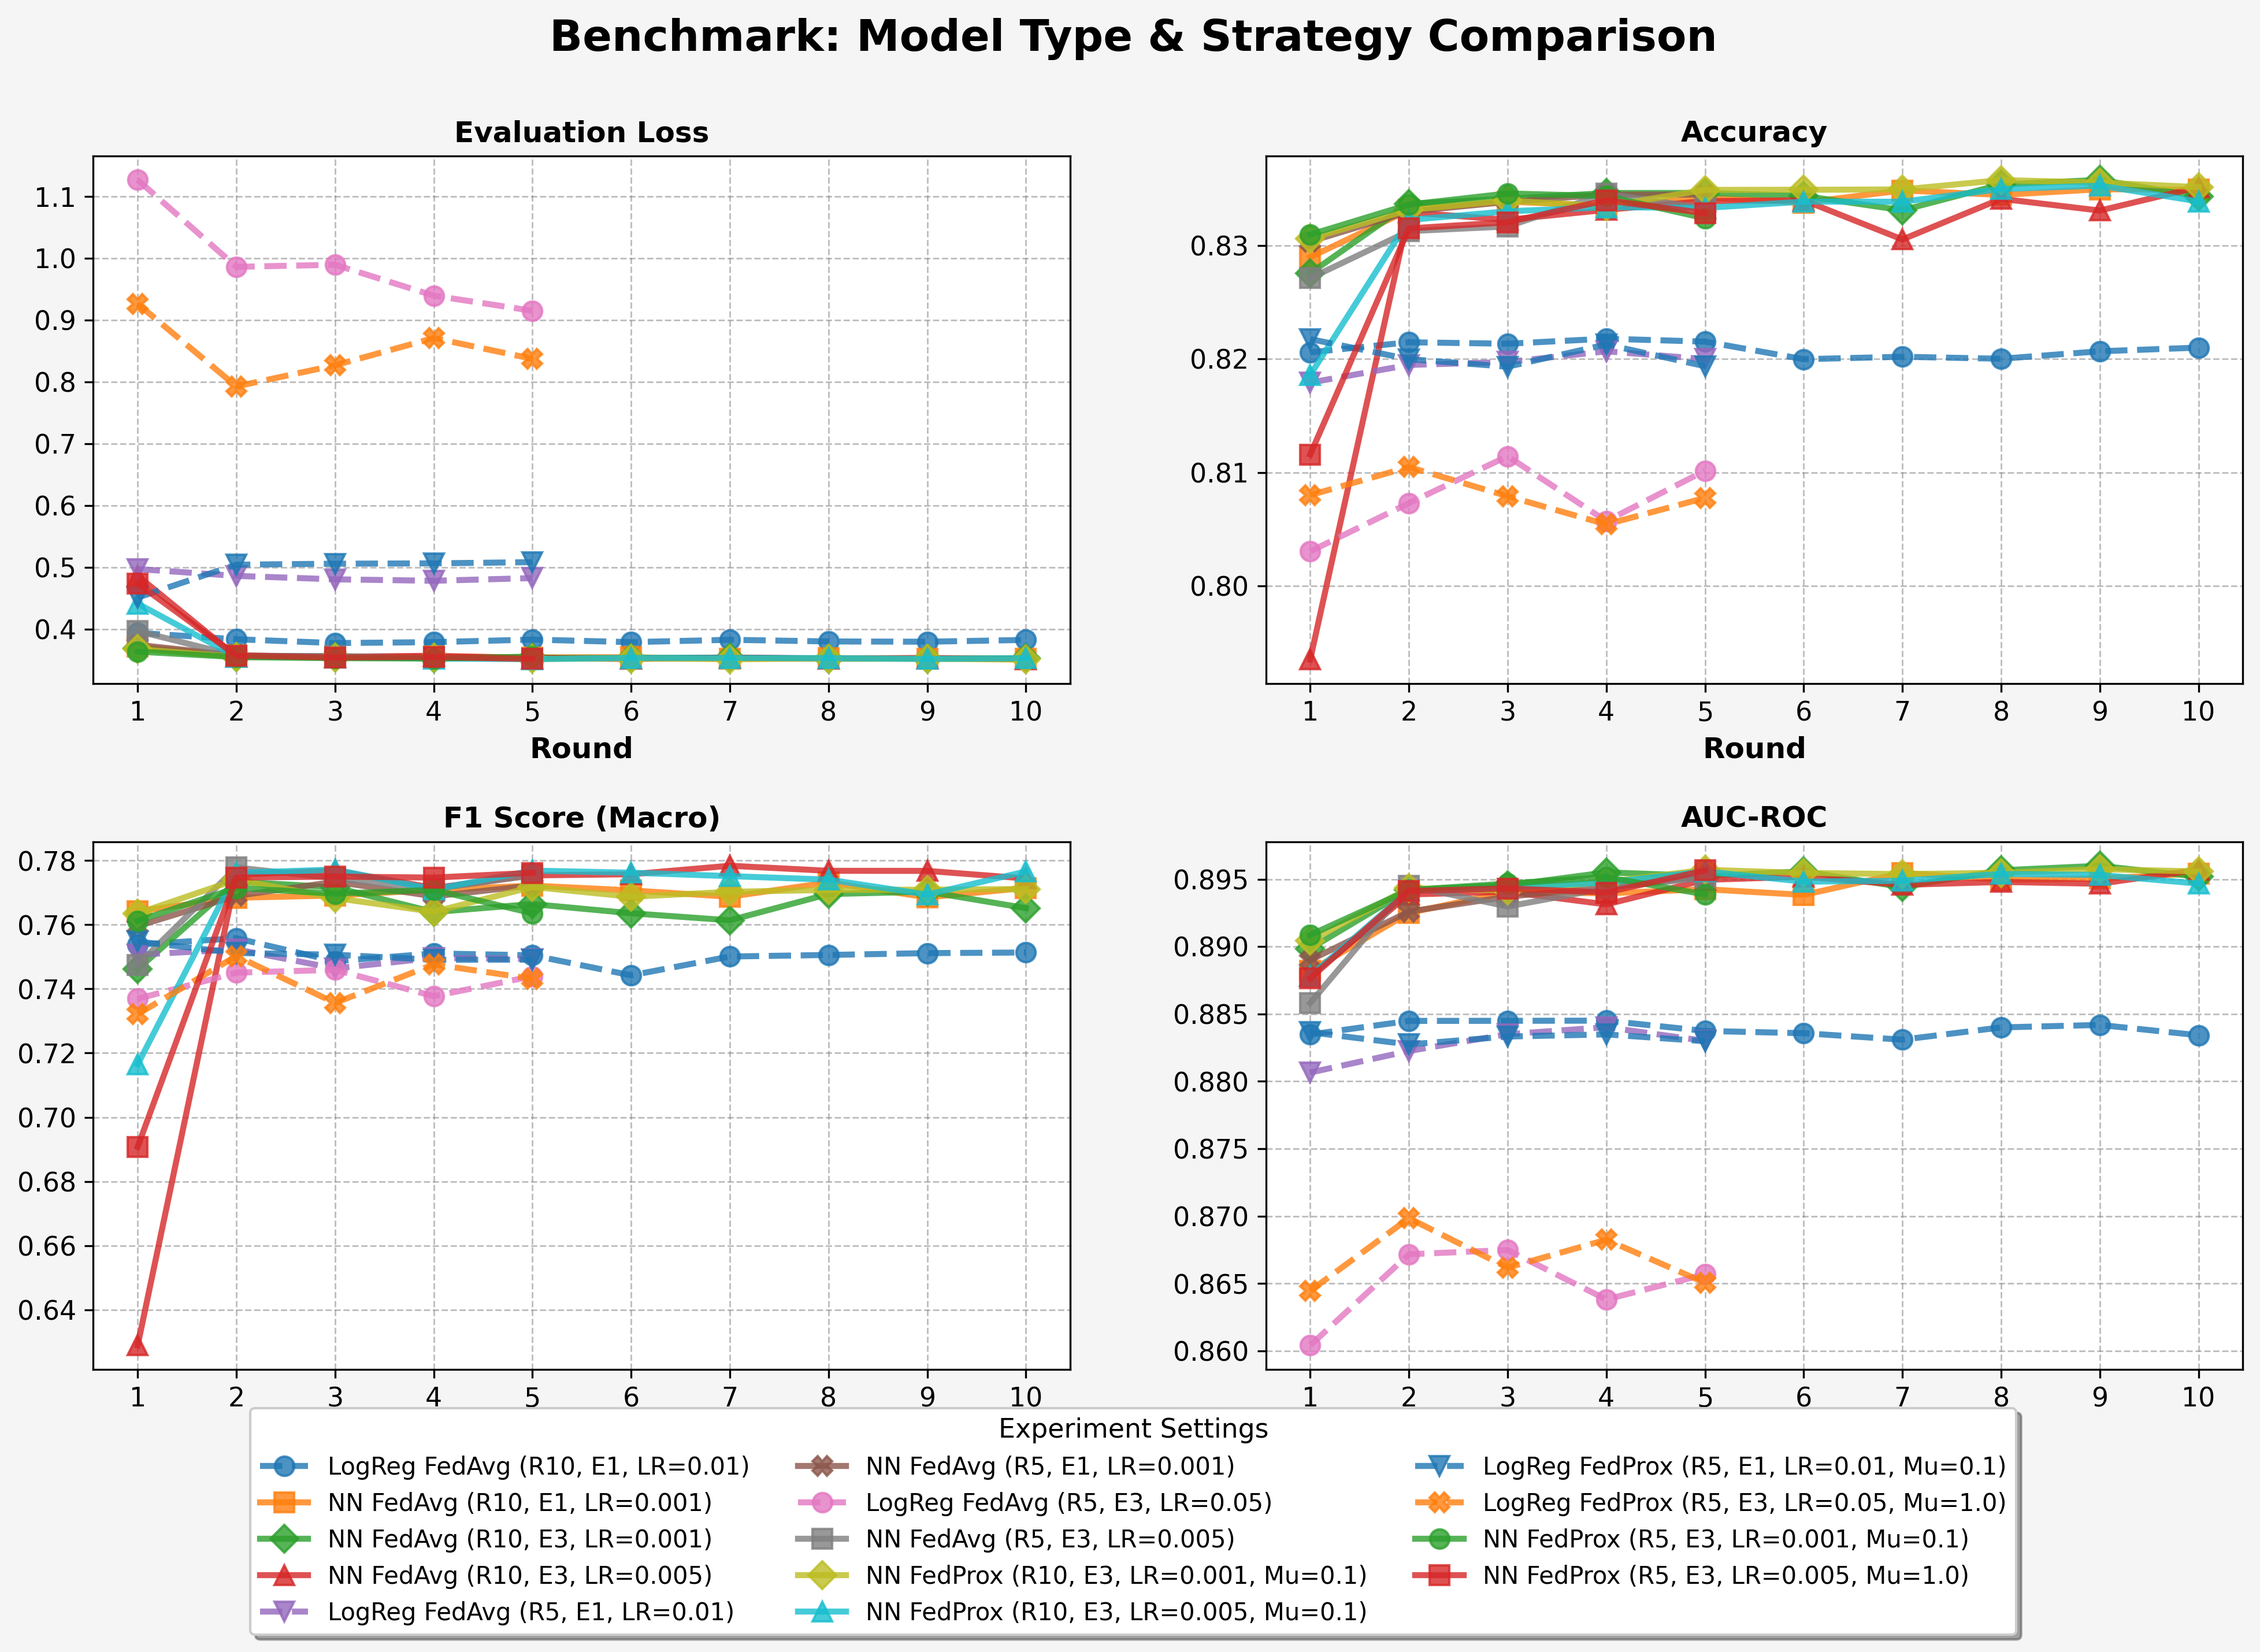
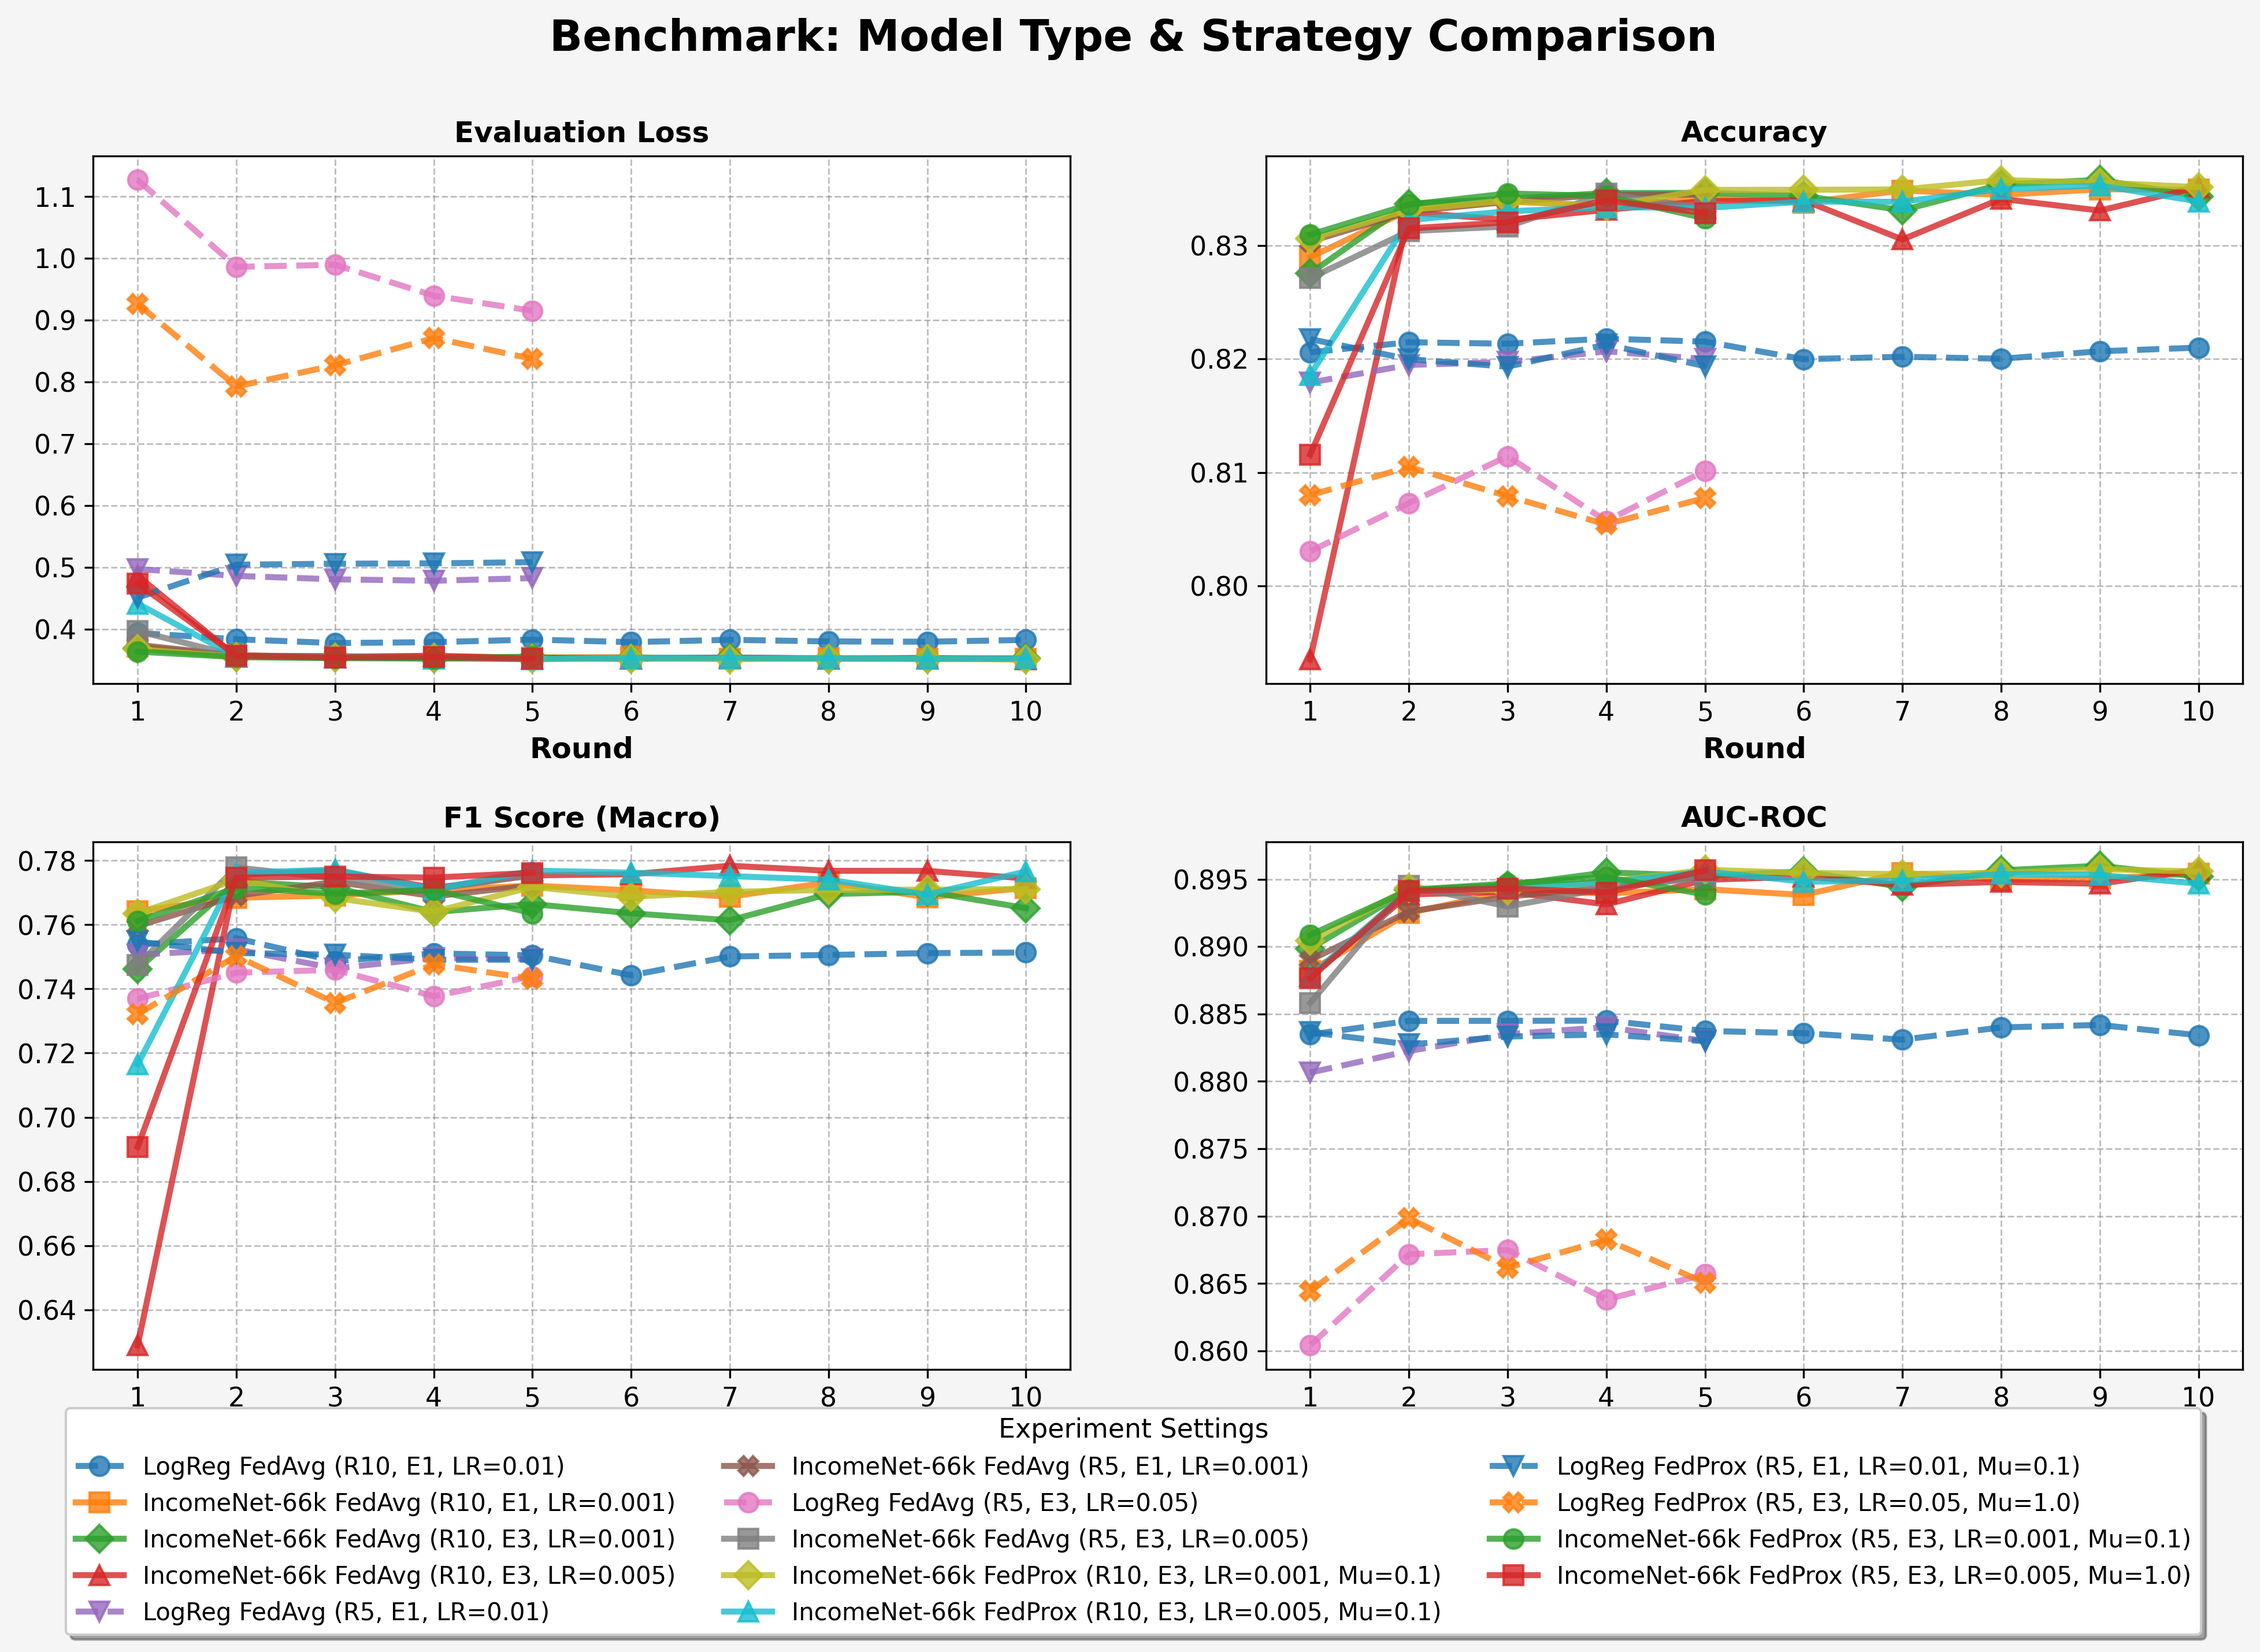
rename model to IncomeNet

Changed region(s): [[0.0312, 0.8716, 0.9982, 0.9962]]

diff --git a/pilot/pilot/client_app.py b/pilot/pilot/client_app.py
@@ -2,7 +2,7 @@ import torch
 from flwr.app import ArrayRecord, Context, Message, MetricRecord, RecordDict
 from flwr.clientapp import ClientApp
 
-from pilot.task import BankNet, LogisticRegression, load_data, train as train_fn, test as test_fn
+from pilot.task import IncomeNet, LogisticRegression, load_data, train as train_fn, test as test_fn
 
 app = ClientApp()
 
@@ -18,7 +18,7 @@ def train(msg: Message, context: Context):
     if model_type == "logreg":
         model = LogisticRegression(input_dim=input_dim)
     else:
-        model = BankNet(input_dim=input_dim)
+        model = IncomeNet(input_dim=input_dim)
         
     model.load_state_dict(msg.content["arrays"].to_torch_state_dict())
     
@@ -63,7 +63,7 @@ def evaluate(msg: Message, context: Context):
     if model_type == "logreg":
         model = LogisticRegression(input_dim=input_dim)
     else:
-        model = BankNet(input_dim=input_dim)
+        model = IncomeNet(input_dim=input_dim)
         
     model.load_state_dict(msg.content["arrays"].to_torch_state_dict())
     device = torch.device("cuda:0" if torch.cuda.is_available() else "cpu")

diff --git a/bank_C_analysis/model_training.py b/bank_C_analysis/model_training.py
@@ -203,12 +203,12 @@ def run_logistic_regression(X_train_scaled: np.ndarray,
     print("Best Parameter:", grid_log.best_params_)
 
 
-class BankNet(nn.Module):
+class IncomeNet(nn.Module):
     """
     A simple feed-forward neural network for binary classification.
     """
     def __init__(self, input_dim: int):
-        super(BankNet, self).__init__()
+        super(IncomeNet, self).__init__()
         self.network = nn.Sequential(
             nn.Linear(input_dim, 256),
             nn.BatchNorm1d(256),
@@ -253,7 +253,7 @@ def run_pytorch_nn(X_train_scaled: np.ndarray,
     train_loader = DataLoader(train_dataset, batch_size=64, shuffle=True)
 
     input_dim = X_train_tensor.shape[1]
-    model = BankNet(input_dim)
+    model = IncomeNet(input_dim)
     criterion = nn.BCELoss()
     optimizer = optim.Adam(model.parameters(), lr=0.001)
 

diff --git a/pilot/pilot/server_app.py b/pilot/pilot/server_app.py
@@ -4,7 +4,7 @@ import os
 from flwr.app import ArrayRecord, ConfigRecord, Context
 from flwr.serverapp import Grid, ServerApp
 
-from pilot.task import BankNet, LogisticRegression, load_data
+from pilot.task import IncomeNet, LogisticRegression, load_data
 from pilot.strategy import FedAvgWithHistory, FedProxWithHistory
 
 app = ServerApp()
@@ -35,7 +35,7 @@ def main(grid: Grid, context: Context) -> None:
     if model_type == "logreg":
         global_model = LogisticRegression(input_dim=input_dim)
     else:
-        global_model = BankNet(input_dim=input_dim)
+        global_model = IncomeNet(input_dim=input_dim)
         
     arrays = ArrayRecord(global_model.state_dict())
 

diff --git a/pilot/pilot/task.py b/pilot/pilot/task.py
@@ -7,9 +7,9 @@ from sklearn.metrics import f1_score, roc_auc_score, accuracy_score
 from pilot.utils import load_preprocessing
 from typing import Tuple, Dict
 
-class BankNet(nn.Module):
+class IncomeNet(nn.Module):
     def __init__(self, input_dim: int):
-        super(BankNet, self).__init__()
+        super(IncomeNet, self).__init__()
         self.network = nn.Sequential(
             nn.Linear(in_features=input_dim,
                       out_features=256),

diff --git a/plot_results.py b/plot_results.py
@@ -68,7 +68,7 @@ def format_legend_label(exp_name):
         strategy = "FedProx"
         
   
-    return f"{model} - {strategy}"
+    return f"{model} {strategy}"
 
 def get_plot_style(exp_name, color_cycle, marker_cycle):
     """Determines color and linestyle based on experiment type."""

diff --git a/pilot/plot_results.py b/pilot/plot_results.py
@@ -59,7 +59,7 @@ def format_legend_label(exp_name):
     Parses the filename and creates a clean legend label.
     Format: Model Strategy (Settings)
     """
-    model = "NN"
+    model = "IncomeNet-66k"
     if "logreg" in exp_name.lower():
         model = "LogReg"
     
